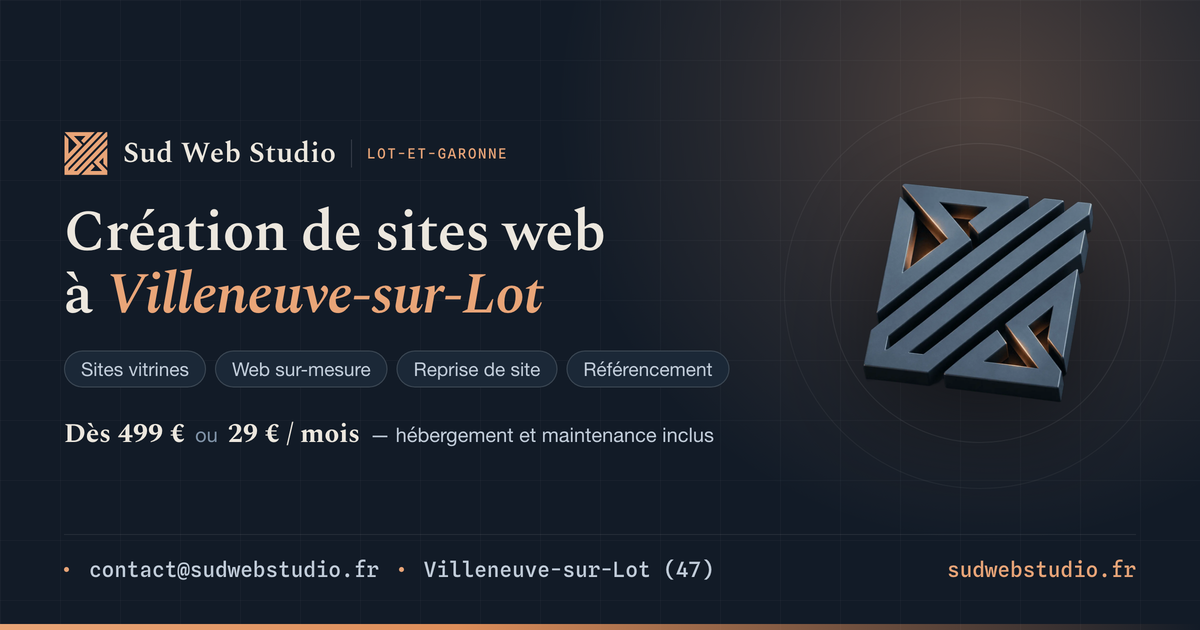
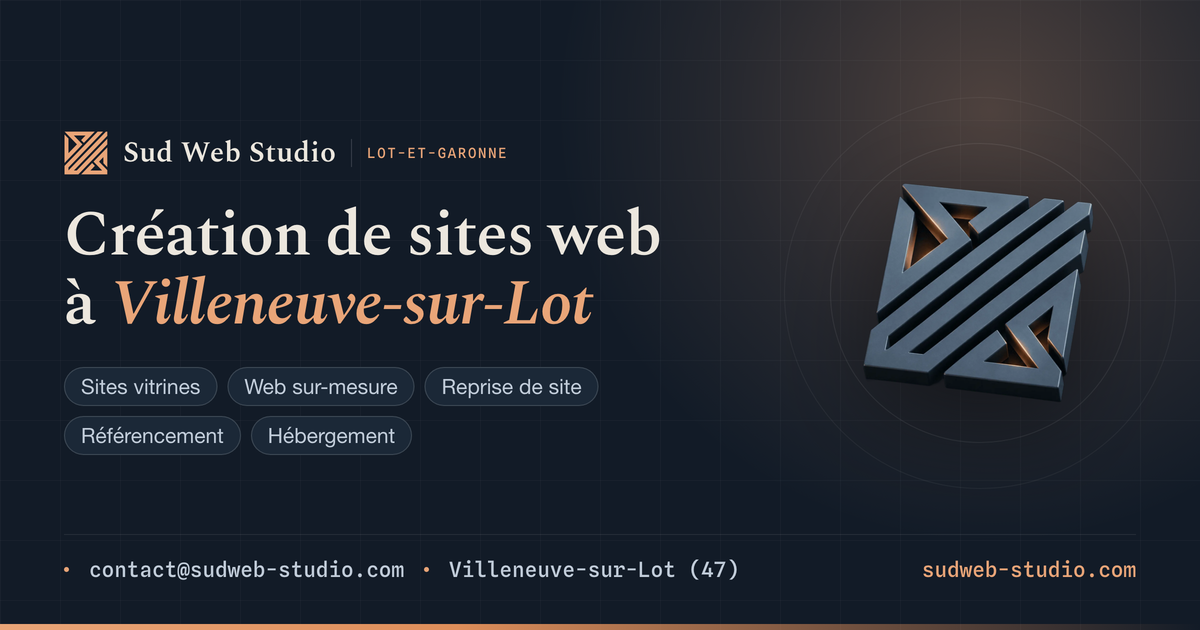
fix(frontend): carte de partage sans tarifs, domaine sudweb-studio.com
Les tarifs sortent de l'image : les réseaux sociaux en gardent une copie en
cache, qui survivrait des mois à un changement de prix — ils restent sur la
page Tarifs, qui, elle, se corrige en une ligne. L'hébergement redevient une
prestation affichée, la ligne de tarifs qui l'annonçait « inclus » ayant
disparu.

L'adresse de contact et le domaine passent à sudweb-studio.com (l'adresse
affichée sur le site vient, elle, de EMAIL_CONTACT — à reporter dans le
.env.local de chaque serveur).

Le titre reprend la place libérée et les prestations se répartissent 3 + 2
plutôt qu'en 4 + 1 bancal : c'est le titre qui porte la carte en vignette, là
où le reste devient illisible.

diff --git a/frontend/src/brand/og-default.html b/frontend/src/brand/og-default.html
@@ -17,10 +17,13 @@
   croisees depuis une page file://. La page reste donc affichable telle quelle
   dans un navigateur, sans les polices du site ni le logo.
 
-  Les valeurs (prestations, tarifs, contact) doublent volontairement celles des
-  pages : une image rendue ne peut pas lire la config PHP. Si les tarifs ou
-  l'adresse de contact changent dans frontend/config/site.php ou
-  frontend/static/tarifs.php, il faut les reporter ici et relancer le build.
+  Les valeurs (prestations, contact) doublent volontairement celles des pages :
+  une image rendue ne peut pas lire la config PHP. Si l'adresse de contact ou le
+  domaine changent dans frontend/config/site.php ou .env.local, il faut les
+  reporter ici et relancer le build.
+
+  Pas de tarifs sur la carte : une image est mise en cache par les reseaux
+  sociaux et survit des mois a un changement de prix.
 -->
 __FONTS__
 <style>
@@ -133,7 +136,7 @@ __FONTS__
 
   h1 {
     font-family: var(--font-display);
-    font-size: 58px;
+    font-size: 64px;
     font-weight: 600;
     line-height: 1.08;
     letter-spacing: -.015em;
@@ -144,8 +147,9 @@ __FONTS__
   .chips {
     display: flex;
     flex-wrap: wrap;
-    gap: 9px;
-    margin-top: 24px;
+    gap: 10px;
+    max-width: 600px;
+    margin-top: 28px;
   }
 
   .chip {
@@ -154,29 +158,9 @@ __FONTS__
     border-radius: 999px;
     background: var(--surface);
     color: var(--ink-soft);
-    font-size: 19px;
+    font-size: 21px;
     line-height: 1;
   }
-
-  /* Les deux entrees tarifaires de la page Tarifs, sur une seule ligne. */
-  .price {
-    display: flex;
-    align-items: baseline;
-    gap: 10px;
-    margin-top: 26px;
-    white-space: nowrap;
-    font-size: 20px;
-    color: var(--muted);
-  }
-
-  .price b {
-    font-family: var(--font-display);
-    font-size: 27px;
-    font-weight: 700;
-    color: var(--ink);
-  }
-
-  .price .inc { color: var(--ink-soft); }
 
   /* ------------------------------------------------------------ colonne logo */
 
@@ -247,13 +231,7 @@ __FONTS__
           <span class="chip">Web sur-mesure</span>
           <span class="chip">Reprise de site</span>
           <span class="chip">Référencement</span>
-        </div>
-
-        <div class="price">
-          <b>Dès 499 €</b>
-          <span>ou</span>
-          <b>29 € / mois</b>
-          <span class="inc">— hébergement et maintenance inclus</span>
+          <span class="chip">Hébergement</span>
         </div>
       </div>
 
@@ -266,10 +244,10 @@ __FONTS__
 
     <div class="foot">
       <span class="dot"></span>
-      <span>contact@sudwebstudio.fr</span>
+      <span>contact@sudweb-studio.com</span>
       <span class="dot"></span>
       <span>Villeneuve-sur-Lot (47)</span>
-      <span class="site">sudwebstudio.fr</span>
+      <span class="site">sudweb-studio.com</span>
     </div>
   </div>
 

diff --git a/frontend/config/site.php b/frontend/config/site.php
@@ -43,8 +43,8 @@ return [
         'image'  => '/assets/brand/og-default.png',
         'width'  => 1200,
         'height' => 630,
-        'alt'    => 'Sud Web Studio — création de sites web à Villeneuve-sur-Lot, '
-            . 'à partir de 499 € ou 29 € par mois.',
+        'alt'    => 'Sud Web Studio — création de sites web à Villeneuve-sur-Lot : '
+            . 'sites vitrines, web sur-mesure, reprise de site, référencement, hébergement.',
         'locale' => 'fr_FR',
     ],
 

diff --git a/README.md b/README.md
@@ -258,12 +258,13 @@ npm run build:brand     # favicons + image d'aperçu Open Graph
   dessin, assumée. Dès 32 px, soit un onglet retina ou un favori, les trois
   lettres se détachent ; d'où le peu de marge autour du tracé.
 - **Carte de partage** : ce qu'affichent Messenger, WhatsApp, LinkedIn, Slack ou
-  X quand on colle un lien. Elle récapitule prestations, tarifs d'entrée et
-  contact. **On la modifie dans le HTML**, jamais sur l'image : `og-default.html`
-  s'ouvre tel quel dans un navigateur, et le script y injecte les polices et le
-  logo en base64 avant la capture (Chrome refuse les requêtes `file://`
-  croisées). Les valeurs y doublent celles des pages : si les tarifs ou l'adresse
-  de contact changent, les reporter et relancer le build.
+  X quand on colle un lien. Elle récapitule prestations et contact — **pas de
+  tarifs** : une image est mise en cache par les réseaux sociaux et survivrait
+  des mois à un changement de prix. **On la modifie dans le HTML**, jamais sur
+  l'image : `og-default.html` s'ouvre tel quel dans un navigateur, et le script y
+  injecte les polices et le logo en base64 avant la capture (Chrome refuse les
+  requêtes `file://` croisées). Les valeurs y doublent celles des pages : si
+  l'adresse de contact ou le domaine changent, les reporter et relancer le build.
 - Cherche Chrome aux emplacements habituels de macOS et Linux, ou dans
   `CHROME_PATH`. Sans Chrome, les favicons sont produits et l'image est laissée
   telle quelle.
